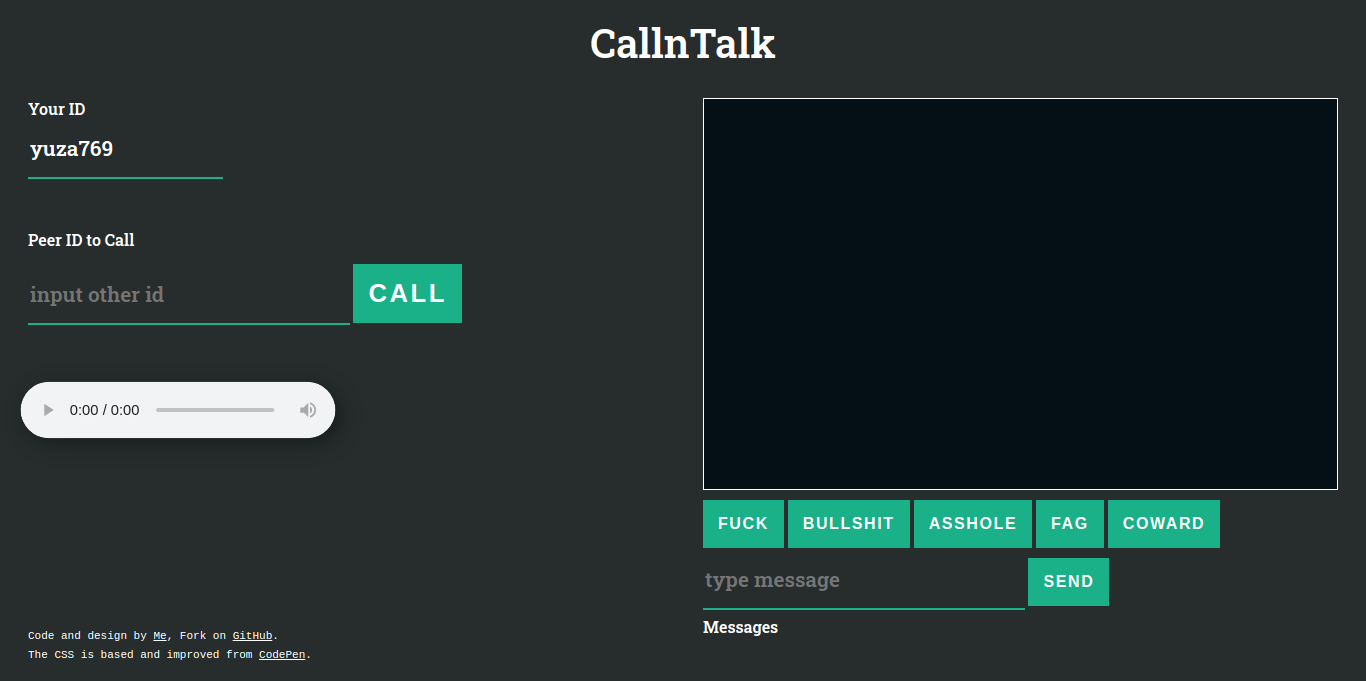
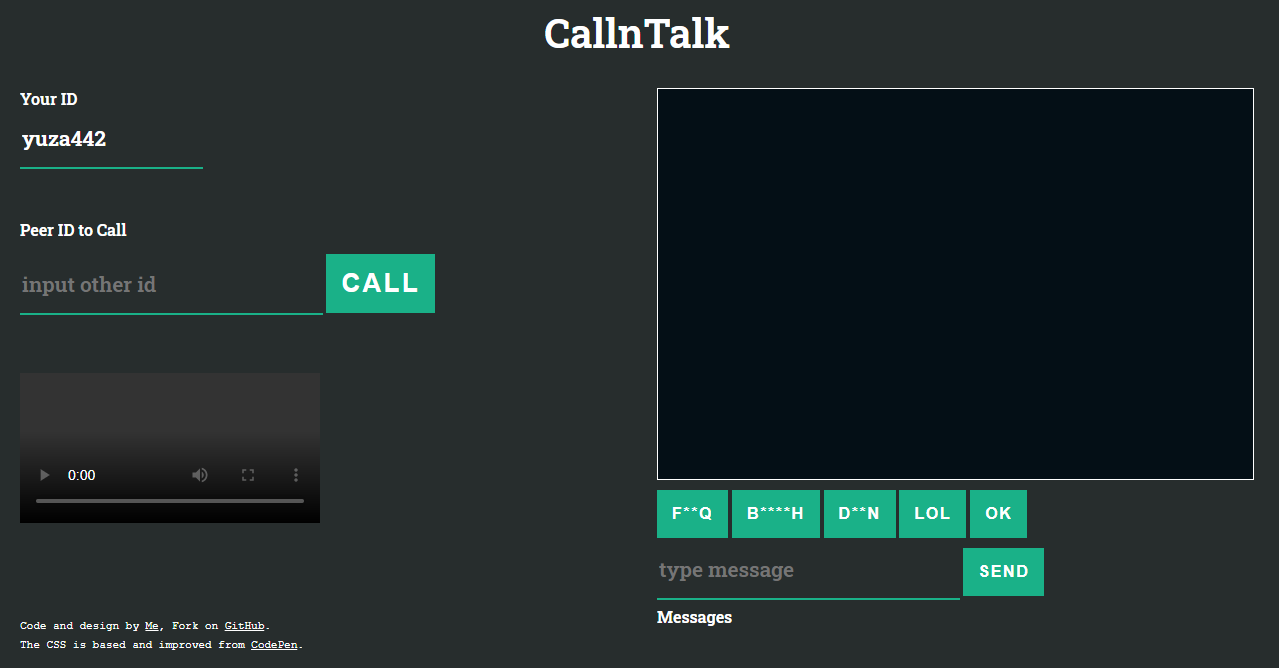
update readme with new screenshot

diff --git a/readme.md b/readme.md
@@ -4,9 +4,9 @@ Open-source project that provides web browsers and mobile applications with real
 
 # CallnTol
 
-**Website:** https://callntol.surge.sh/
+**Website:** https://callntol.vercel.app/
 
-You can call, You can talk, You can chat. (you can even bitc\*\* easyly now)
+You can call, You can talk, You can chat, You can Video Call now. ~~(you can even bitc\*\* easyly now)~~
 
 ![web looks](./images/fullscreen.png)
 
@@ -32,4 +32,5 @@ Clone the repo and run `php -S localhost:8888`
 
 1. You can curse instantly with the curse button provided so that you don't have to type anymore.
 2. You still not satisfied with the curse button messages? you can write you custom messages too to bullshit to the other peer.
-3. Responsive Yo.
+3. Videocall support.
+4. Responsive Yo.
